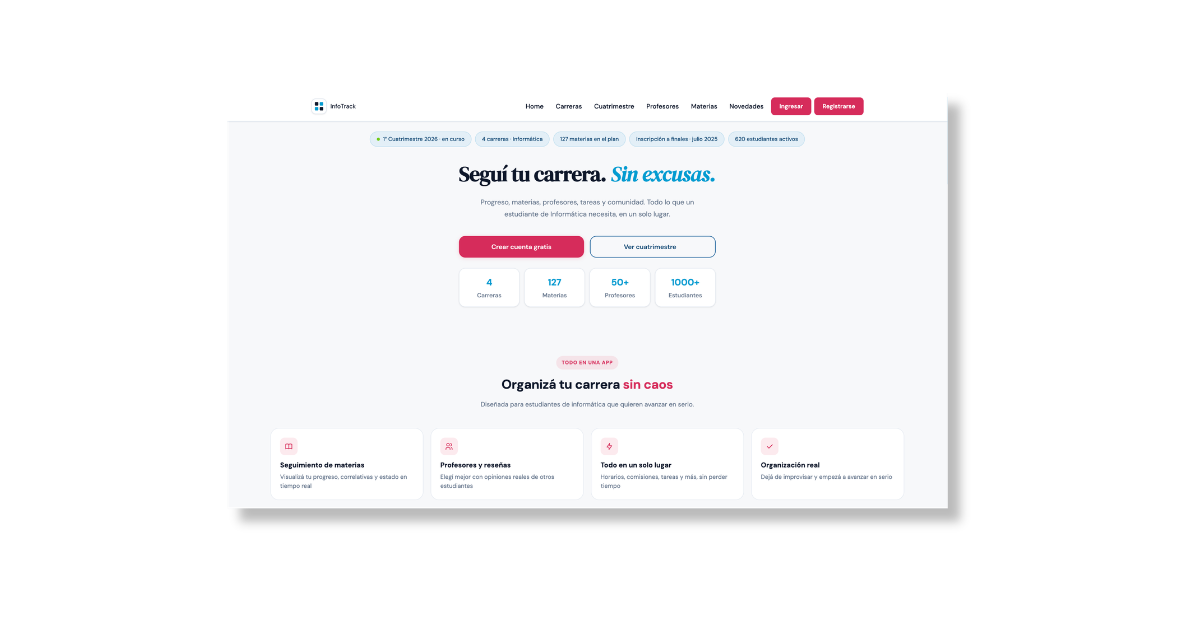
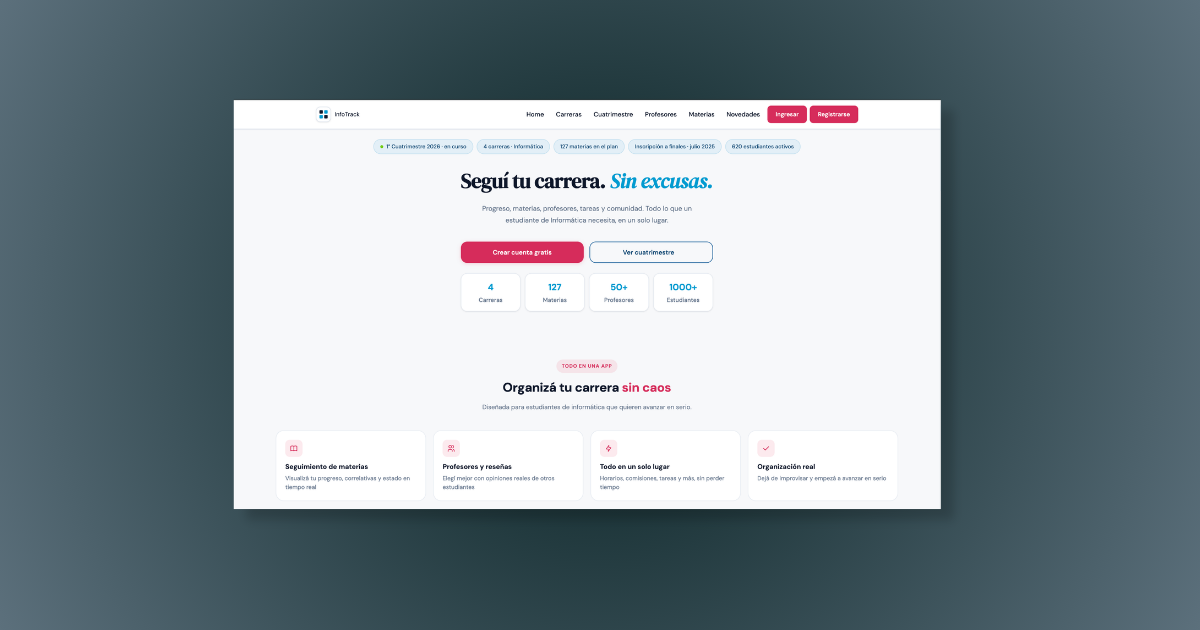
style: stilos imagenes

diff --git a/src/data/profileData.ts b/src/data/profileData.ts
@@ -16,6 +16,7 @@ import {
   SiReact,
   SiNextdotjs,
   SiTailwindcss,
+  SiMysql,
 } from "react-icons/si";
 import { BiCodeAlt } from "react-icons/bi";
 import {
@@ -140,6 +141,45 @@ export const misProyectos: Proyectos[] = [
       linkURL: "https://github.com/danyelsalazar/frontend-info-track-UNO.git",
     },
     demoURL: "https://frontend-info-track-46usp0k4t-danyelsalazars-projects.vercel.app/",
+  },
+  {
+    id: "3",
+    titulo: "Task",
+    descripcion:
+      "Aplicación integral para la gestión de tareas con persistencia de datos Creación, edición, filtrado por estado y búsqueda en tiempo real, (esperar unos segundos al entrar para que se active el server)",
+    tecnologias: [
+      {
+        icono: IconoExpress,
+        label: "Express",
+      },
+      {
+        icono: IconoNodeJS,
+        label: "NodeJS",
+      },
+       {
+        icono: IconoReact,
+        label: "React",
+      },
+      {
+        icono: SiJavascript,
+        label:"JavaScript"
+      },
+      {
+        icono: SiCss,
+        label: "CSS",
+      },
+      {
+        icono: SiMysql,
+        label: "Mysql"
+      }
+    ],
+    imagenURL: "/proyecto-task.png",
+    repositorio: {
+      icono: IconoGitHub,
+      label: "Repositorio",
+      linkURL: "https://github.com/danyelsalazar/forit-challenge-task.git",
+    },
+    demoURL: "https://forit-challenge-task.vercel.app/",
   },
 ];
 